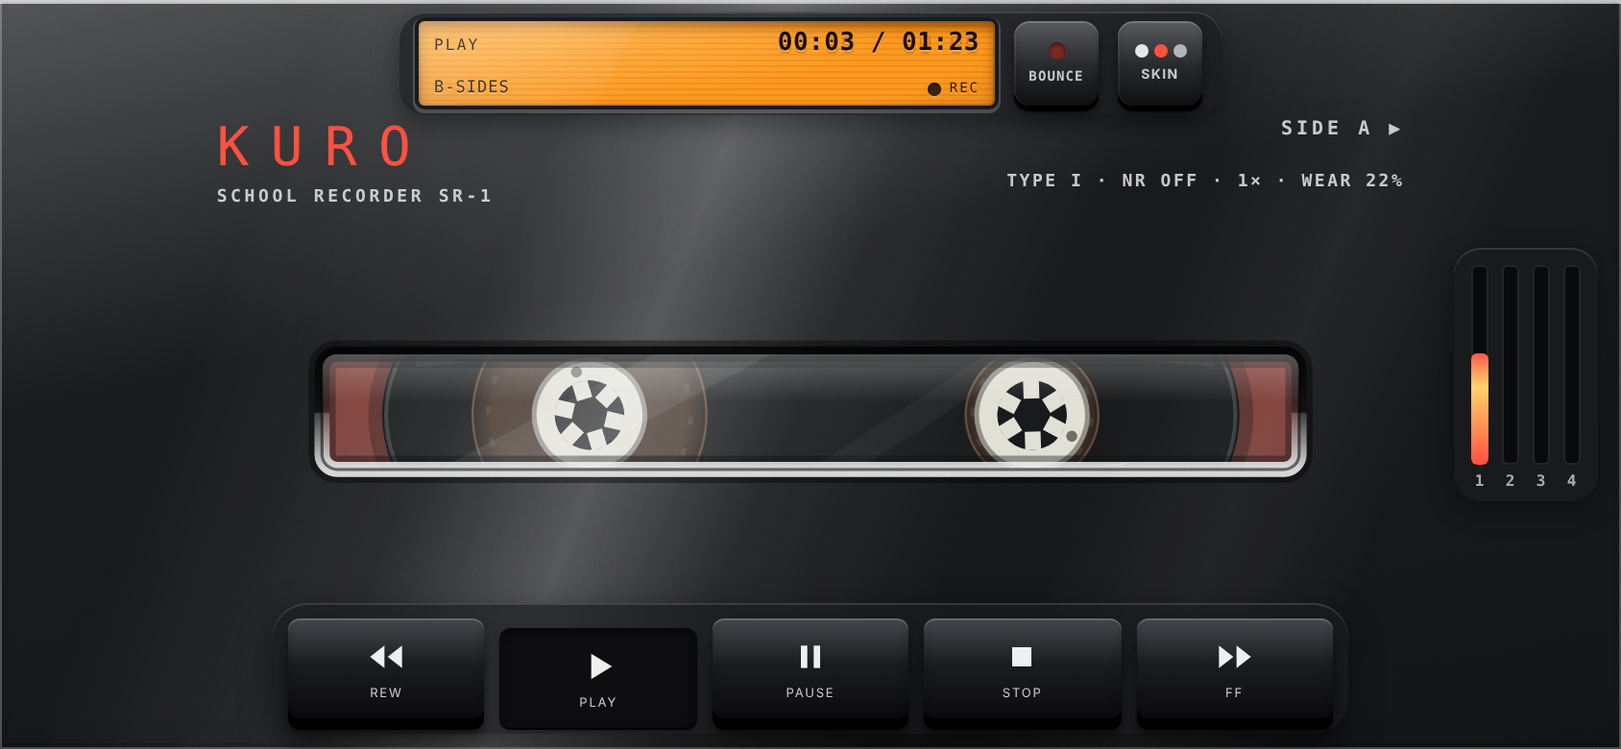
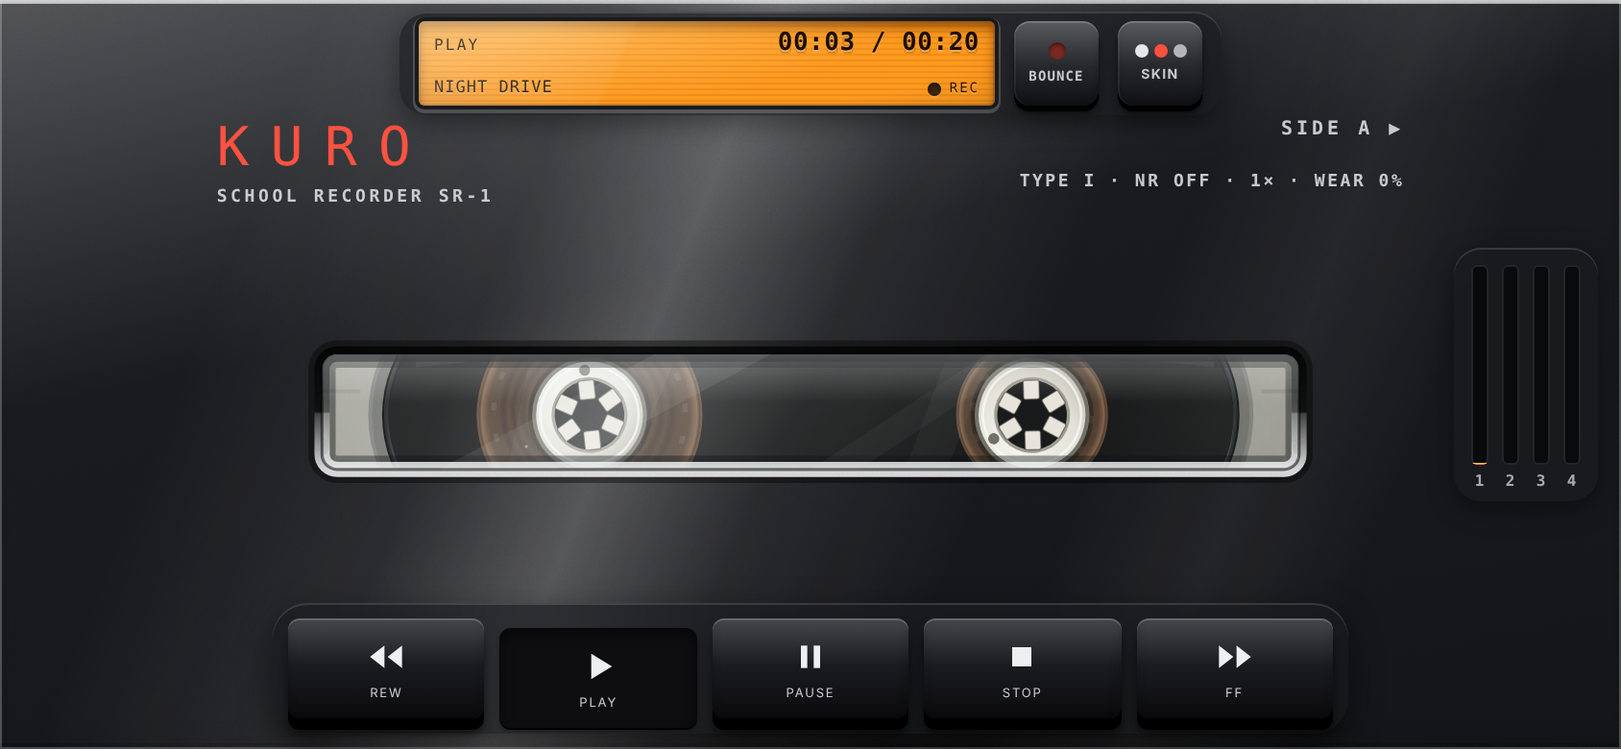
Add files via upload

diff --git a/index.html b/index.html
@@ -818,14 +818,6 @@ body:not(.worn) #plate::before,body:not(.worn) #keys .key::after,body:not(.worn)
 #lid .lwr{position:absolute;inset:0;z-index:1;pointer-events:none;border-radius:var(--wr,14px);opacity:clamp(0,calc(var(--dw)*1.6),1);background:var(--wr-g) center/cover no-repeat}
 body.lidc #lid .lwr{background-image:var(--wr-l)}
 body:not(.worn) #lid .lwr{display:none}
-#slot{--bk:0;--bkc:#ffb347;--bkc2:#fff0c4}
-body[data-theme="sonic"] #slot{--bkc:#ffc983;--bkc2:#fff3d6}
-body[data-theme="kami"] #slot{--bkc:#6fe8c8;--bkc2:#e2fff7}
-body[data-theme="nashville"] #slot{--bkc:#ffae42;--bkc2:#ffe8b4}
-body[data-theme="kiiro"] #slot{--bkc:#ffe03d;--bkc2:#fff8c4}
-body[data-theme="akane"] #slot{--bkc:#ff8656;--bkc2:#ffdfcf}
-body[data-theme="kuro"] #slot{--bkc:#ff5545;--bkc2:#ffd3cd}
-#slot.rec{--bkc:#ff3b2f;--bkc2:#ffc4bd}
 </style>
 </head>
 <body>
@@ -1493,12 +1485,9 @@ const PEN_FF="'Bradley Hand','Noteworthy','Marker Felt','Segoe Print','Chalkboar
 const STAMP_FF="'Impact','Haettenschweiler','Avenir Next Condensed','DIN Condensed','Arial Narrow',sans-serif";
 const PACK_STOPS=(()=>{let s='<stop offset="0" stop-color="#241710"/>';for(let i=1;i<=13;i++)s+=`<stop offset="${(.2+.6*i/13).toFixed(3)}" stop-color="${i%2?'#44301f':'#35231a'}"/>`;
 return s+'<stop offset=".9" stop-color="#4d3523"/><stop offset=".965" stop-color="#7c5a3e"/><stop offset="1" stop-color="#1d120b"/>';})();
-const bkc=(o,v)=>`style="stop-color:var(--bkc${v||''},${v?'#fff0c4':'#ffb347'})" stop-opacity="${o}"`;
 const artDefs=u=>`<radialGradient id="pk${u}" cx=".5" cy=".5" r=".5" fx=".47" fy=".44">${PACK_STOPS}</radialGradient>
    <radialGradient id="hb${u}" cx=".36" cy=".3" r=".9"><stop offset="0" stop-color="#fdfbf2"/><stop offset=".55" stop-color="#e6e1d4"/><stop offset="1" stop-color="#aaa493"/></radialGradient>
    <radialGradient id="hc${u}" cx=".35" cy=".3" r=".9"><stop offset="0" stop-color="#fff" stop-opacity=".04"/><stop offset=".7" stop-color="#fff" stop-opacity=".12"/><stop offset="1" stop-color="#d8ecff" stop-opacity=".4"/></radialGradient>
-   <radialGradient id="bk${u}" gradientUnits="userSpaceOnUse" cx="160" cy="124" r="136" gradientTransform="translate(160 124) scale(1 .46) translate(-160 -124)"><stop offset="0" ${bkc(.72)}/><stop offset=".5" ${bkc(.42)}/><stop offset="1" ${bkc(.12)}/></radialGradient>
-   <radialGradient id="bg${u}"><stop offset="0" ${bkc(.34,2)}/><stop offset=".6" ${bkc(.12,2)}/><stop offset="1" ${bkc(0,2)}/></radialGradient>
    <linearGradient id="wn${u}" x1="0" y1="0" x2="0" y2="1"><stop offset="0" stop-color="#1c1814"/><stop offset=".5" stop-color="#0e0c0a"/><stop offset="1" stop-color="#060504"/></linearGradient>
    <linearGradient id="eb${u}" x1="0" y1="0" x2="0" y2="1"><stop offset="0" stop-color="#fff" stop-opacity=".6"/><stop offset=".25" stop-color="#fff" stop-opacity=".05"/><stop offset=".7" stop-color="#000" stop-opacity="0"/><stop offset="1" stop-color="#000" stop-opacity=".4"/></linearGradient>
    <linearGradient id="sp${u}" x1="0" y1="0" x2="1" y2="0"><stop offset="0" stop-color="#fff" stop-opacity="0"/><stop offset=".5" stop-color="#fff" stop-opacity=".2"/><stop offset="1" stop-color="#fff" stop-opacity="0"/></linearGradient>
@@ -1508,13 +1497,12 @@ const artDefs=u=>`<radialGradient id="pk${u}" cx=".5" cy=".5" r=".5" fx=".47" fy
    <clipPath id="sc${u}"><rect x="1" y="1" width="318" height="202" rx="12"/></clipPath>`;
 function reelSVG(k,cx,cy,r,type,u){
 const A=(a,s)=>`transform="rotate(${a} ${cx} ${cy})"`;
-const glow=rr=>`<circle cx="${cx}" cy="${cy}" r="${rr}" style="fill:var(--bkc2,#fff0c4);opacity:calc(var(--bk,0)*.85)"/>`;
 let hub='',teeth='';
 if(type==='smooth'){
 hub=`<circle class="hub${k}" cx="${cx}" cy="${cy}" r="14" fill="url(#hb${u})" stroke="#6c675b" stroke-width="1"/>
      <circle cx="${cx}" cy="${cy}" r="12.2" fill="none" stroke="#fff" stroke-opacity=".8" stroke-width=".6"/><circle cx="${cx}" cy="${cy}" r="11.5" fill="none" stroke="#000" stroke-opacity=".13" stroke-width=".6"/>
      <circle cx="${cx}" cy="${cy}" r="8.4" fill="none" stroke="#000" stroke-opacity=".1" stroke-width=".6"/><circle cx="${cx}" cy="${cy}" r="7.7" fill="none" stroke="#fff" stroke-opacity=".7" stroke-width=".5"/>
-     <circle cx="${cx}" cy="${cy}" r="5.6" fill="#8f897c"/>${glow(4.4)}<circle cx="${cx}" cy="${cy}" r="4.6" fill="#0b0a09" fill-opacity=".92" stroke="#4a463e" stroke-width=".7"/>
+     <circle cx="${cx}" cy="${cy}" r="5.6" fill="#8f897c"/><circle cx="${cx}" cy="${cy}" r="4.6" fill="#0b0a09" fill-opacity=".92" stroke="#4a463e" stroke-width=".7"/>
      ${[0,120,240].map(a=>`<g ${A(a)}><circle cx="${cx}" cy="${cy-10}" r="1.5" fill="#000" fill-opacity=".28"/><circle cx="${cx}" cy="${cy-10.3}" r="1.3" fill="#fff" fill-opacity=".55"/></g>`).join('')}
      <path d="M${cx-1.8} ${cy-12.4}L${cx+1.8} ${cy-12.4}L${cx} ${cy-14.6}Z" fill="#c4502f" fill-opacity=".9"/>`;
 }else if(type==='clear'){
@@ -1523,23 +1511,20 @@ hub=`<circle class="hub${k}" cx="${cx}" cy="${cy}" r="14" fill="url(#hc${u})" st
      <circle cx="${cx}" cy="${cy}" r="14.7" fill="none" stroke="#000" stroke-opacity=".5" stroke-width=".7"/>
      <circle cx="${cx}" cy="${cy}" r="12.3" fill="none" stroke="#fff" stroke-opacity=".26" stroke-width=".6"/>
      ${[30,90,150,210,270,330].map(a=>`<rect x="${cx-.95}" y="${cy-13}" width="1.9" height="4.4" fill="#fff" fill-opacity=".5" ${A(a)}/>`).join('')}
-     <circle cx="${cx}" cy="${cy}" r="9.6" fill="none" stroke="#fff" stroke-opacity=".78" stroke-width="2.3"/><circle cx="${cx}" cy="${cy}" r="8.5" fill="#050403" fill-opacity=".6"/>${glow(8.2)}${teeth}
+     <circle cx="${cx}" cy="${cy}" r="9.6" fill="none" stroke="#fff" stroke-opacity=".78" stroke-width="2.3"/><circle cx="${cx}" cy="${cy}" r="8.5" fill="#050403" fill-opacity=".6"/>${teeth}
      <circle cx="${cx}" cy="${cy-11.6}" r="1.1" fill="#fff" fill-opacity=".9"/>`;
 }else{
 teeth=[0,60,120,180,240,300].map(a=>`<rect x="${cx-2}" y="${cy-8.8}" width="4" height="4.8" rx=".5" fill="#ebe6d9" stroke="#3a3328" stroke-opacity=".55" stroke-width=".35" ${A(a)}/>`).join('');
 hub=`<circle class="hub${k}" cx="${cx}" cy="${cy}" r="14" fill="url(#hb${u})" stroke="#6c675b" stroke-width="1"/>
      <circle cx="${cx}" cy="${cy}" r="12.4" fill="none" stroke="#fff" stroke-opacity=".7" stroke-width=".6"/>
-     <circle cx="${cx}" cy="${cy}" r="9.6" fill="#9b9588"/><circle cx="${cx}" cy="${cy}" r="8.8" fill="#0b0a09"/>${glow(8.4)}${teeth}
+     <circle cx="${cx}" cy="${cy}" r="9.6" fill="#9b9588"/><circle cx="${cx}" cy="${cy}" r="8.8" fill="#0b0a09"/>${teeth}
      <circle cx="${cx}" cy="${cy-11.4}" r="1.4" fill="#6b655a"/>`;
 }
 return `<circle class="pack${k}" cx="${cx}" cy="${cy}" r="${r}" fill="url(#pk${u})" stroke="#5a3d28" stroke-width=".6"/>
-   <circle class="edge${k}" cx="${cx}" cy="${cy}" r="${r-.6}" fill="none" style="stroke:var(--bkc,#ffb347);opacity:calc(var(--bk,0)*.75)" stroke-width="1.5"/>
    <g class="reel${k}" transform="rotate(0 ${cx} ${cy})">
     <circle class="ring${k}" cx="${cx}" cy="${cy}" r="${r-4}" fill="none" stroke="#fff" stroke-opacity=".09" stroke-width="1.3" stroke-dasharray="2 6"/>
     <circle cx="${cx}" cy="${cy}" r="15.6" fill="#000" fill-opacity=".34"/>${hub}</g>`;
 }
-const bklUnder=u=>`<g class="bkl" style="opacity:var(--bk,0)"><rect x="52" y="92" width="216" height="64" fill="url(#bk${u})"/></g>`;
-const bklTop=u=>`<g class="bkl" style="opacity:var(--bk,0)"><circle cx="${CL}" cy="${CY}" r="36" fill="url(#bg${u})"/><circle cx="${CR}" cy="${CY}" r="34" fill="url(#bg${u})"/></g>`;
 const NOTES={en:['mix 1998','for K. xx','DON’T ERASE!','best of','side A = slow','road trip','dub #2','rough take','summer ’94','keep!','3 am','radio rip','bedroom demo'],
 ru:['микс 98','для К. xx','НЕ СТИРАТЬ!','лучшее','дубль 2','поездка','черновик','лето ’94','оставить!','3 ночи','с радио','домашнее демо']};
 const OLDT={en:['MIX 3','TAPE 2','radio','demo','BEST OF','dub'],ru:['МИКС 3','кассета 2','радио','демо','ЛУЧШЕЕ','копия']};
@@ -1747,8 +1732,7 @@ return `<svg viewBox="0 0 320 204" xmlns="http://www.w3.org/2000/svg">
   <rect x="48" y="88" width="224" height="72" rx="36" fill="#000" opacity=".32"/>
   <rect x="48.5" y="88.5" width="223" height="71" rx="35.5" fill="none" stroke="#fff" stroke-opacity=".1"/>
   <rect x="52" y="92" width="216" height="64" rx="32" fill="url(#wn${u})" stroke="#000"/>
-  <g clip-path="url(#wc${u})">${bklUnder(u)}${reelSVG('L',CL,CY,26,reel,u)}${reelSVG('R',CR,CY,20,reel,u)}
-   ${bklTop(u)}
+  <g clip-path="url(#wc${u})">${reelSVG('L',CL,CY,26,reel,u)}${reelSVG('R',CR,CY,20,reel,u)}
    <path d="M60 100 Q160 88 262 100 L262 112 Q160 100 60 112Z" fill="#fff" opacity=".09"/>
    <path d="M92 94L132 94L108 154L80 154Z" fill="#fff" opacity=".055"/><path d="M200 94L212 94L188 154L178 154Z" fill="#fff" opacity=".04"/>
    <path d="M70 149Q160 160 250 149" stroke="#fff" stroke-opacity=".14" stroke-width="1" fill="none"/>
@@ -1772,7 +1756,7 @@ return `<svg viewBox="0 0 320 204" xmlns="http://www.w3.org/2000/svg">
 }
 function cassRefs(el){
 const q=s=>el.querySelector(s);
-return {reelL:q('.reelL'),reelR:q('.reelR'),packL:q('.packL'),packR:q('.packR'),ringL:q('.ringL'),ringR:q('.ringR'),edgeL:q('.edgeL'),edgeR:q('.edgeR'),hubL:q('.hubL'),hubR:q('.hubR'),nm:q('.nm'),du:q('.du'),tint:q('.tint')};
+return {reelL:q('.reelL'),reelR:q('.reelR'),packL:q('.packL'),packR:q('.packR'),ringL:q('.ringL'),ringR:q('.ringR'),hubL:q('.hubL'),hubR:q('.hubR'),nm:q('.nm'),du:q('.du'),tint:q('.tint')};
 }
 function buildCassette(m,side){
 const el=document.createElement('div');el.className='cass enter';
@@ -1882,7 +1866,7 @@ fileInp.addEventListener('change',()=>{wakeAudio();const fl=[...fileInp.files];i
 if(loadTarget&&cur){loadTarget=false;loadIntoTrack(fl[0]).finally(()=>{fileInp.value='';});return;}
 loadTarget=false;addFiles(fl).finally(()=>{fileInp.value='';});});
 const bay=$('#bay'),lid=$('#lid'),shade=$('#shade'),glare=$('.glare');
-let lidBk=false,bkV='',bkR=false;
+let lidBk=false;
 const lidPrt=document.querySelector('#lid .prt');
 let g=null,lidDrag=false,lidSwiped=0,lidOpenCls=false,uiS=1;
 function reelHit(x,y){
@@ -1959,9 +1943,6 @@ lid.style.transform='rotateX('+(lidP*lidA).toFixed(2)+'deg)';
 lidPrt.style.opacity=lidP>0.55?clamp(1-(lidP-0.55)/0.3,0,1).toFixed(2):'';
 shade.style.opacity=(0.5*Math.sin(Math.PI*clamp(lidP,0,1))).toFixed(3);
 glare.style.transform='translateX('+((lidP*140)-30).toFixed(1)+'px)';
-{const run=S.mode!=='stop'&&S.mode!=='pause',on=cur?clamp(1-lidP*2.2,0,1)*(run?1:.82):0,v=on.toFixed(2);
-if(v!==bkV){bkV=v;slot.style.setProperty('--bk',v);}
-const r=S.mode==='rec';if(r!==bkR){bkR=r;slot.classList.toggle('rec',r);}}
 if(lidP===lidT){const o=lidT===1;if(o!==lidOpenCls){lidOpenCls=o;document.body.classList.toggle('open',o);}}
 }
 function startScrub(hit,e){
@@ -2253,8 +2234,8 @@ const p=cur.dur>0?clamp(pos/cur.dur,0,1):0,dp=pos-lastPos;lastPos=pos;
 const rr=a=>Math.sqrt(RMIN*RMIN+(RMAX*RMAX-RMIN*RMIN)*a),rL=rr(1-p),rR=rr(p);
 const cs=x=>Math.max(-24,Math.min(24,x));
 cur.aL-=cs(dp*V/rL*57.2958);cur.aR-=cs(dp*V/rR*57.2958);
-if(Math.abs(rL-cur.rL)>0.04){cur.rL=rL;cur.refs.packL.setAttribute('r',rL.toFixed(2));cur.refs.edgeL.setAttribute('r',(rL-.6).toFixed(2));cur.refs.ringL.setAttribute('r',Math.max(rL-4,15).toFixed(2));}
-if(Math.abs(rR-cur.rR)>0.04){cur.rR=rR;cur.refs.packR.setAttribute('r',rR.toFixed(2));cur.refs.edgeR.setAttribute('r',(rR-.6).toFixed(2));cur.refs.ringR.setAttribute('r',Math.max(rR-4,15).toFixed(2));}
+if(Math.abs(rL-cur.rL)>0.04){cur.rL=rL;cur.refs.packL.setAttribute('r',rL.toFixed(2));cur.refs.ringL.setAttribute('r',Math.max(rL-4,15).toFixed(2));}
+if(Math.abs(rR-cur.rR)>0.04){cur.rR=rR;cur.refs.packR.setAttribute('r',rR.toFixed(2));cur.refs.ringR.setAttribute('r',Math.max(rR-4,15).toFixed(2));}
 if(dp!==0&&!(lidMoving&&(rfN++&1))){
 cur.refs.reelL.setAttribute('transform','rotate('+(cur.aL%360).toFixed(2)+' '+CL+' '+CY+')');
 cur.refs.reelR.setAttribute('transform','rotate('+(cur.aR%360).toFixed(2)+' '+CR+' '+CY+')');

diff --git a/src/js/69-cass-art.js b/src/js/69-cass-art.js
@@ -1,7 +1,7 @@
 /* ---------- cassette art: shell materials, reel types, stickers and the window backlight ----------
    Everything here is deterministic per cassette (seeded by its id), so a tape always keeps its own reels, its own plastic and its own history:
    reel types: teeth / smooth / clear. shell materials: gloss (opaque) / smoke (tinted translucent) / clear (nearly transparent).
-   stickers: scotch tape, a DEMO rubber stamp and pen notes. The backlight is a group inside the window whose strength comes from the CSS variable --bk (set by lidStep). */
+   stickers: scotch tape, a DEMO rubber stamp and pen notes. */
 const REELS=['teeth','smooth','clear'],MATS=['gloss','smoke','clear'];
 const REEL_N={teeth:'TEETH',smooth:'SMOOTH',clear:'CLEAR'},MAT_N={gloss:'GLOSS',smoke:'SMOKED',clear:'CLEAR'};
 const hashId=s=>{let h=2166136261;for(const c of String(s))h=Math.imul(h^c.charCodeAt(0),16777619)>>>0;return h;};
@@ -15,13 +15,9 @@ const STAMP_FF="'Impact','Haettenschweiler','Avenir Next Condensed','DIN Condens
 /* ---- reels ---- */
 const PACK_STOPS=(()=>{let s='<stop offset="0" stop-color="#241710"/>';for(let i=1;i<=13;i++)s+=`<stop offset="${(.2+.6*i/13).toFixed(3)}" stop-color="${i%2?'#44301f':'#35231a'}"/>`;
   return s+'<stop offset=".9" stop-color="#4d3523"/><stop offset=".965" stop-color="#7c5a3e"/><stop offset="1" stop-color="#1d120b"/>';})();
-/* the lamp: a warm wash behind the window plus a glow in each hub; both are driven by --bk (0..1) and tinted by --bkc */
-const bkc=(o,v)=>`style="stop-color:var(--bkc${v||''},${v?'#fff0c4':'#ffb347'})" stop-opacity="${o}"`;
 const artDefs=u=>`<radialGradient id="pk${u}" cx=".5" cy=".5" r=".5" fx=".47" fy=".44">${PACK_STOPS}</radialGradient>
    <radialGradient id="hb${u}" cx=".36" cy=".3" r=".9"><stop offset="0" stop-color="#fdfbf2"/><stop offset=".55" stop-color="#e6e1d4"/><stop offset="1" stop-color="#aaa493"/></radialGradient>
    <radialGradient id="hc${u}" cx=".35" cy=".3" r=".9"><stop offset="0" stop-color="#fff" stop-opacity=".04"/><stop offset=".7" stop-color="#fff" stop-opacity=".12"/><stop offset="1" stop-color="#d8ecff" stop-opacity=".4"/></radialGradient>
-   <radialGradient id="bk${u}" gradientUnits="userSpaceOnUse" cx="160" cy="124" r="136" gradientTransform="translate(160 124) scale(1 .46) translate(-160 -124)"><stop offset="0" ${bkc(.72)}/><stop offset=".5" ${bkc(.42)}/><stop offset="1" ${bkc(.12)}/></radialGradient>
-   <radialGradient id="bg${u}"><stop offset="0" ${bkc(.34,2)}/><stop offset=".6" ${bkc(.12,2)}/><stop offset="1" ${bkc(0,2)}/></radialGradient>
    <linearGradient id="wn${u}" x1="0" y1="0" x2="0" y2="1"><stop offset="0" stop-color="#1c1814"/><stop offset=".5" stop-color="#0e0c0a"/><stop offset="1" stop-color="#060504"/></linearGradient>
    <linearGradient id="eb${u}" x1="0" y1="0" x2="0" y2="1"><stop offset="0" stop-color="#fff" stop-opacity=".6"/><stop offset=".25" stop-color="#fff" stop-opacity=".05"/><stop offset=".7" stop-color="#000" stop-opacity="0"/><stop offset="1" stop-color="#000" stop-opacity=".4"/></linearGradient>
    <linearGradient id="sp${u}" x1="0" y1="0" x2="1" y2="0"><stop offset="0" stop-color="#fff" stop-opacity="0"/><stop offset=".5" stop-color="#fff" stop-opacity=".2"/><stop offset="1" stop-color="#fff" stop-opacity="0"/></linearGradient>
@@ -31,14 +27,13 @@ const artDefs=u=>`<radialGradient id="pk${u}" cx=".5" cy=".5" r=".5" fx=".47" fy
    <clipPath id="sc${u}"><rect x="1" y="1" width="318" height="202" rx="12"/></clipPath>`;
 function reelSVG(k,cx,cy,r,type,u){
   const A=(a,s)=>`transform="rotate(${a} ${cx} ${cy})"`;
-  const glow=rr=>`<circle cx="${cx}" cy="${cy}" r="${rr}" style="fill:var(--bkc2,#fff0c4);opacity:calc(var(--bk,0)*.85)"/>`;
   let hub='',teeth='';
   if(type==='smooth'){
     /* a solid, smooth hub: machined grooves, a tiny spindle hole and three dimples so the spin still reads */
     hub=`<circle class="hub${k}" cx="${cx}" cy="${cy}" r="14" fill="url(#hb${u})" stroke="#6c675b" stroke-width="1"/>
      <circle cx="${cx}" cy="${cy}" r="12.2" fill="none" stroke="#fff" stroke-opacity=".8" stroke-width=".6"/><circle cx="${cx}" cy="${cy}" r="11.5" fill="none" stroke="#000" stroke-opacity=".13" stroke-width=".6"/>
      <circle cx="${cx}" cy="${cy}" r="8.4" fill="none" stroke="#000" stroke-opacity=".1" stroke-width=".6"/><circle cx="${cx}" cy="${cy}" r="7.7" fill="none" stroke="#fff" stroke-opacity=".7" stroke-width=".5"/>
-     <circle cx="${cx}" cy="${cy}" r="5.6" fill="#8f897c"/>${glow(4.4)}<circle cx="${cx}" cy="${cy}" r="4.6" fill="#0b0a09" fill-opacity=".92" stroke="#4a463e" stroke-width=".7"/>
+     <circle cx="${cx}" cy="${cy}" r="5.6" fill="#8f897c"/><circle cx="${cx}" cy="${cy}" r="4.6" fill="#0b0a09" fill-opacity=".92" stroke="#4a463e" stroke-width=".7"/>
      ${[0,120,240].map(a=>`<g ${A(a)}><circle cx="${cx}" cy="${cy-10}" r="1.5" fill="#000" fill-opacity=".28"/><circle cx="${cx}" cy="${cy-10.3}" r="1.3" fill="#fff" fill-opacity=".55"/></g>`).join('')}
      <path d="M${cx-1.8} ${cy-12.4}L${cx+1.8} ${cy-12.4}L${cx} ${cy-14.6}Z" fill="#c4502f" fill-opacity=".9"/>`;
   }else if(type==='clear'){
@@ -48,25 +43,20 @@ function reelSVG(k,cx,cy,r,type,u){
      <circle cx="${cx}" cy="${cy}" r="14.7" fill="none" stroke="#000" stroke-opacity=".5" stroke-width=".7"/>
      <circle cx="${cx}" cy="${cy}" r="12.3" fill="none" stroke="#fff" stroke-opacity=".26" stroke-width=".6"/>
      ${[30,90,150,210,270,330].map(a=>`<rect x="${cx-.95}" y="${cy-13}" width="1.9" height="4.4" fill="#fff" fill-opacity=".5" ${A(a)}/>`).join('')}
-     <circle cx="${cx}" cy="${cy}" r="9.6" fill="none" stroke="#fff" stroke-opacity=".78" stroke-width="2.3"/><circle cx="${cx}" cy="${cy}" r="8.5" fill="#050403" fill-opacity=".6"/>${glow(8.2)}${teeth}
+     <circle cx="${cx}" cy="${cy}" r="9.6" fill="none" stroke="#fff" stroke-opacity=".78" stroke-width="2.3"/><circle cx="${cx}" cy="${cy}" r="8.5" fill="#050403" fill-opacity=".6"/>${teeth}
      <circle cx="${cx}" cy="${cy-11.6}" r="1.1" fill="#fff" fill-opacity=".9"/>`;
   }else{
     teeth=[0,60,120,180,240,300].map(a=>`<rect x="${cx-2}" y="${cy-8.8}" width="4" height="4.8" rx=".5" fill="#ebe6d9" stroke="#3a3328" stroke-opacity=".55" stroke-width=".35" ${A(a)}/>`).join('');
     hub=`<circle class="hub${k}" cx="${cx}" cy="${cy}" r="14" fill="url(#hb${u})" stroke="#6c675b" stroke-width="1"/>
      <circle cx="${cx}" cy="${cy}" r="12.4" fill="none" stroke="#fff" stroke-opacity=".7" stroke-width=".6"/>
-     <circle cx="${cx}" cy="${cy}" r="9.6" fill="#9b9588"/><circle cx="${cx}" cy="${cy}" r="8.8" fill="#0b0a09"/>${glow(8.4)}${teeth}
+     <circle cx="${cx}" cy="${cy}" r="9.6" fill="#9b9588"/><circle cx="${cx}" cy="${cy}" r="8.8" fill="#0b0a09"/>${teeth}
      <circle cx="${cx}" cy="${cy-11.4}" r="1.4" fill="#6b655a"/>`;
   }
   return `<circle class="pack${k}" cx="${cx}" cy="${cy}" r="${r}" fill="url(#pk${u})" stroke="#5a3d28" stroke-width=".6"/>
-   <circle class="edge${k}" cx="${cx}" cy="${cy}" r="${r-.6}" fill="none" style="stroke:var(--bkc,#ffb347);opacity:calc(var(--bk,0)*.75)" stroke-width="1.5"/>
    <g class="reel${k}" transform="rotate(0 ${cx} ${cy})">
     <circle class="ring${k}" cx="${cx}" cy="${cy}" r="${r-4}" fill="none" stroke="#fff" stroke-opacity=".09" stroke-width="1.3" stroke-dasharray="2 6"/>
     <circle cx="${cx}" cy="${cy}" r="15.6" fill="#000" fill-opacity=".34"/>${hub}</g>`;
 }
-/* the lamp sits behind the tape: a strong wash on the window background (under the reels, so hubs and teeth stay crisp) and a mild bloom on the glass above them */
-const bklUnder=u=>`<g class="bkl" style="opacity:var(--bk,0)"><rect x="52" y="92" width="216" height="64" fill="url(#bk${u})"/></g>`;
-const bklTop=u=>`<g class="bkl" style="opacity:var(--bk,0)"><circle cx="${CL}" cy="${CY}" r="36" fill="url(#bg${u})"/><circle cx="${CR}" cy="${CY}" r="34" fill="url(#bg${u})"/></g>`;
-
 /* ---- stickers: scotch tape, DEMO stamp, pen ---- */
 const NOTES={en:['mix 1998','for K. xx','DON’T ERASE!','best of','side A = slow','road trip','dub #2','rough take','summer ’94','keep!','3 am','radio rip','bedroom demo'],
   ru:['микс 98','для К. xx','НЕ СТИРАТЬ!','лучшее','дубль 2','поездка','черновик','лето ’94','оставить!','3 ночи','с радио','домашнее демо']};

diff --git a/sw.js b/sw.js
@@ -1,4 +1,4 @@
-const V='hiss-v99',FILES=['./','index.html','manifest.webmanifest','icons/icon-180.png','icons/icon-192.png','icons/icon-512.png','sounds/index.json','sounds/enc_a01.wav','sounds/enc_a02.wav','sounds/enc_a03.wav','sounds/enc_a04.wav','sounds/enc_a05.wav','sounds/enc_a06.wav','sounds/enc_a07.wav','sounds/enc_a08.wav','sounds/enc_a09.wav','sounds/enc_a10.wav','sounds/enc_a11.wav','sounds/enc_b01.wav','sounds/enc_b02.wav','sounds/enc_b03.wav','sounds/enc_b04.wav','sounds/enc_b05.wav','sounds/enc_b06.wav','sounds/enc_b07.wav','sounds/enc_b08.wav','sounds/enc_b09.wav','sounds/enc_b10.wav','sounds/enc_b11.wav','sounds/setA_down1.wav','sounds/setA_down2.wav','sounds/setA_down3.wav','sounds/setA_down4.wav','sounds/setA_up1.wav','sounds/setA_up2.wav','sounds/setA_up3.wav','sounds/setA_up4.wav','sounds/setB_down1.wav','sounds/setB_down2.wav','sounds/setB_down3.wav','sounds/setB_down4.wav','sounds/setB_up1.wav','sounds/setB_up2.wav','sounds/setB_up3.wav','sounds/setB_up4.wav'];
+const V='hiss-v100',FILES=['./','index.html','manifest.webmanifest','icons/icon-180.png','icons/icon-192.png','icons/icon-512.png','sounds/index.json','sounds/enc_a01.wav','sounds/enc_a02.wav','sounds/enc_a03.wav','sounds/enc_a04.wav','sounds/enc_a05.wav','sounds/enc_a06.wav','sounds/enc_a07.wav','sounds/enc_a08.wav','sounds/enc_a09.wav','sounds/enc_a10.wav','sounds/enc_a11.wav','sounds/enc_b01.wav','sounds/enc_b02.wav','sounds/enc_b03.wav','sounds/enc_b04.wav','sounds/enc_b05.wav','sounds/enc_b06.wav','sounds/enc_b07.wav','sounds/enc_b08.wav','sounds/enc_b09.wav','sounds/enc_b10.wav','sounds/enc_b11.wav','sounds/setA_down1.wav','sounds/setA_down2.wav','sounds/setA_down3.wav','sounds/setA_down4.wav','sounds/setA_up1.wav','sounds/setA_up2.wav','sounds/setA_up3.wav','sounds/setA_up4.wav','sounds/setB_down1.wav','sounds/setB_down2.wav','sounds/setB_down3.wav','sounds/setB_down4.wav','sounds/setB_up1.wav','sounds/setB_up2.wav','sounds/setB_up3.wav','sounds/setB_up4.wav'];
 self.addEventListener('install',e=>{e.waitUntil(caches.open(V).then(c=>c.addAll(FILES)).then(()=>self.skipWaiting()));});
 self.addEventListener('activate',e=>{e.waitUntil(caches.keys().then(ks=>Promise.all(ks.filter(k=>k!==V).map(k=>caches.delete(k)))).then(()=>self.clients.claim()));});
 self.addEventListener('fetch',e=>{if(e.request.method!=='GET')return;

diff --git a/src/js/70-cassettes.js b/src/js/70-cassettes.js
@@ -159,8 +159,7 @@ function cassSVG(m,uidk,side,lite){
   <rect x="48" y="88" width="224" height="72" rx="36" fill="#000" opacity=".32"/>
   <rect x="48.5" y="88.5" width="223" height="71" rx="35.5" fill="none" stroke="#fff" stroke-opacity=".1"/>
   <rect x="52" y="92" width="216" height="64" rx="32" fill="url(#wn${u})" stroke="#000"/>
-  <g clip-path="url(#wc${u})">${bklUnder(u)}${reelSVG('L',CL,CY,26,reel,u)}${reelSVG('R',CR,CY,20,reel,u)}
-   ${bklTop(u)}
+  <g clip-path="url(#wc${u})">${reelSVG('L',CL,CY,26,reel,u)}${reelSVG('R',CR,CY,20,reel,u)}
    <path d="M60 100 Q160 88 262 100 L262 112 Q160 100 60 112Z" fill="#fff" opacity=".09"/>
    <path d="M92 94L132 94L108 154L80 154Z" fill="#fff" opacity=".055"/><path d="M200 94L212 94L188 154L178 154Z" fill="#fff" opacity=".04"/>
    <path d="M70 149Q160 160 250 149" stroke="#fff" stroke-opacity=".14" stroke-width="1" fill="none"/>
@@ -184,7 +183,7 @@ function cassSVG(m,uidk,side,lite){
 }
 function cassRefs(el){
   const q=s=>el.querySelector(s);
-  return {reelL:q('.reelL'),reelR:q('.reelR'),packL:q('.packL'),packR:q('.packR'),ringL:q('.ringL'),ringR:q('.ringR'),edgeL:q('.edgeL'),edgeR:q('.edgeR'),hubL:q('.hubL'),hubR:q('.hubR'),nm:q('.nm'),du:q('.du'),tint:q('.tint')};
+  return {reelL:q('.reelL'),reelR:q('.reelR'),packL:q('.packL'),packR:q('.packR'),ringL:q('.ringL'),ringR:q('.ringR'),hubL:q('.hubL'),hubR:q('.hubR'),nm:q('.nm'),du:q('.du'),tint:q('.tint')};
 }
 function buildCassette(m,side){
   const el=document.createElement('div');el.className='cass enter';

diff --git a/src/js/80-gestures.js b/src/js/80-gestures.js
@@ -1,6 +1,6 @@
 /* ---------- lid & bay gestures ---------- */
 const bay=$('#bay'),lid=$('#lid'),shade=$('#shade'),glare=$('.glare');
-let lidBk=false,bkV='',bkR=false;
+let lidBk=false;
 const lidPrt=document.querySelector('#lid .prt');
 let g=null,lidDrag=false,lidSwiped=0,lidOpenCls=false,uiS=1;
 function reelHit(x,y){
@@ -79,10 +79,6 @@ function lidStep(dt){
   lidPrt.style.opacity=lidP>0.55?clamp(1-(lidP-0.55)/0.3,0,1).toFixed(2):'';   /* print fades out before the lid passes edge-on (its back side would show mirrored) */
   shade.style.opacity=(0.5*Math.sin(Math.PI*clamp(lidP,0,1))).toFixed(3);
   glare.style.transform='translateX('+((lidP*140)-30).toFixed(1)+'px)';
-  /* window backlight: lit while the lid is closed (a little dimmer at rest, full while the tape runs), fades out as the lid lifts; red while recording */
-  {const run=S.mode!=='stop'&&S.mode!=='pause',on=cur?clamp(1-lidP*2.2,0,1)*(run?1:.82):0,v=on.toFixed(2);
-   if(v!==bkV){bkV=v;slot.style.setProperty('--bk',v);}
-   const r=S.mode==='rec';if(r!==bkR){bkR=r;slot.classList.toggle('rec',r);}}
   /* the shelf dims/undims only once the lid has settled: flipping this mid-motion restyled every tile on the same frame */
   if(lidP===lidT){const o=lidT===1;if(o!==lidOpenCls){lidOpenCls=o;document.body.classList.toggle('open',o);}}
 }

diff --git a/src/js/92-frame-boot.js b/src/js/92-frame-boot.js
@@ -9,8 +9,8 @@ function updateReels(pos){
   /* hub has 6-fold symmetry: a step past ~30deg/frame reads as spinning backwards (wagon-wheel), so FF/REW is capped at 24deg/frame */
   const cs=x=>Math.max(-24,Math.min(24,x));
   cur.aL-=cs(dp*V/rL*57.2958);cur.aR-=cs(dp*V/rR*57.2958);
-  if(Math.abs(rL-cur.rL)>0.04){cur.rL=rL;cur.refs.packL.setAttribute('r',rL.toFixed(2));cur.refs.edgeL.setAttribute('r',(rL-.6).toFixed(2));cur.refs.ringL.setAttribute('r',Math.max(rL-4,15).toFixed(2));}
-  if(Math.abs(rR-cur.rR)>0.04){cur.rR=rR;cur.refs.packR.setAttribute('r',rR.toFixed(2));cur.refs.edgeR.setAttribute('r',(rR-.6).toFixed(2));cur.refs.ringR.setAttribute('r',Math.max(rR-4,15).toFixed(2));}
+  if(Math.abs(rL-cur.rL)>0.04){cur.rL=rL;cur.refs.packL.setAttribute('r',rL.toFixed(2));cur.refs.ringL.setAttribute('r',Math.max(rL-4,15).toFixed(2));}
+  if(Math.abs(rR-cur.rR)>0.04){cur.rR=rR;cur.refs.packR.setAttribute('r',rR.toFixed(2));cur.refs.ringR.setAttribute('r',Math.max(rR-4,15).toFixed(2));}
   if(dp!==0&&!(lidMoving&&(rfN++&1))){
     cur.refs.reelL.setAttribute('transform','rotate('+(cur.aL%360).toFixed(2)+' '+CL+' '+CY+')');
     cur.refs.reelR.setAttribute('transform','rotate('+(cur.aR%360).toFixed(2)+' '+CR+' '+CY+')');

diff --git a/README.md b/README.md
@@ -40,7 +40,6 @@ All skins share one body: a big speaker grille with a level LED on top, the wind
 - **PING-PONG**: bounce tracks into one, with generation loss
 - **Sides A/B**, hand-written cassette labels, **J-card** export to PNG
 - **Cassette materials**: every cassette has its own reels (**teeth**, **smooth** or **clear**), its own plastic (**gloss**, **smoked** translucent or **clear**: the liner sheet and screw bosses show through) and its own history: scotch tape strips and peeled-tape smears, a **DEMO** rubber stamp, pen notes, a crossed-out old title, a signature. All of it is seeded by the cassette id; pen, stamp and tape fade and yellow with wear. Change reels and shell in the 4TRK sheet (REEL / SHELL).
-- **Window backlight**: while the lid is closed, a lamp behind the cassette lights the window so the reels stay visible (the colour belongs to the skin, it is dimmer at rest, full while the tape runs and red while recording).
 - **Tape wear**: every cassette has its own history, and it shows: scratches, tea stains, curled label corners, fading ink, darker sound. Wear is permanent until you press NEW TAPE in the 4TRK sheet
 - **Cassette life**: each tape carries a generation stamp on its label (G1 is the original; every PING-PONG or DUB adds one) and keeps its own history of plays and hours, printed on the J-card. DUB TAPE (4TRK sheet) copies the whole cassette onto a new one, one generation down, with the same tape loss as a ping-pong, so a copy sounds worse than its source. The TAPE encoder sets how much tape character you hear, and the higher it is the faster the cassette ages.
 - **Display windows**: six display technologies (LCD, VFD, EL, LED matrix) in one depth system: recessed glass, 2 px bezel, unlit segments, uneven backlight, a faint refresh shimmer on the LED and VFD skins, and long track names slide instead of being cut.
